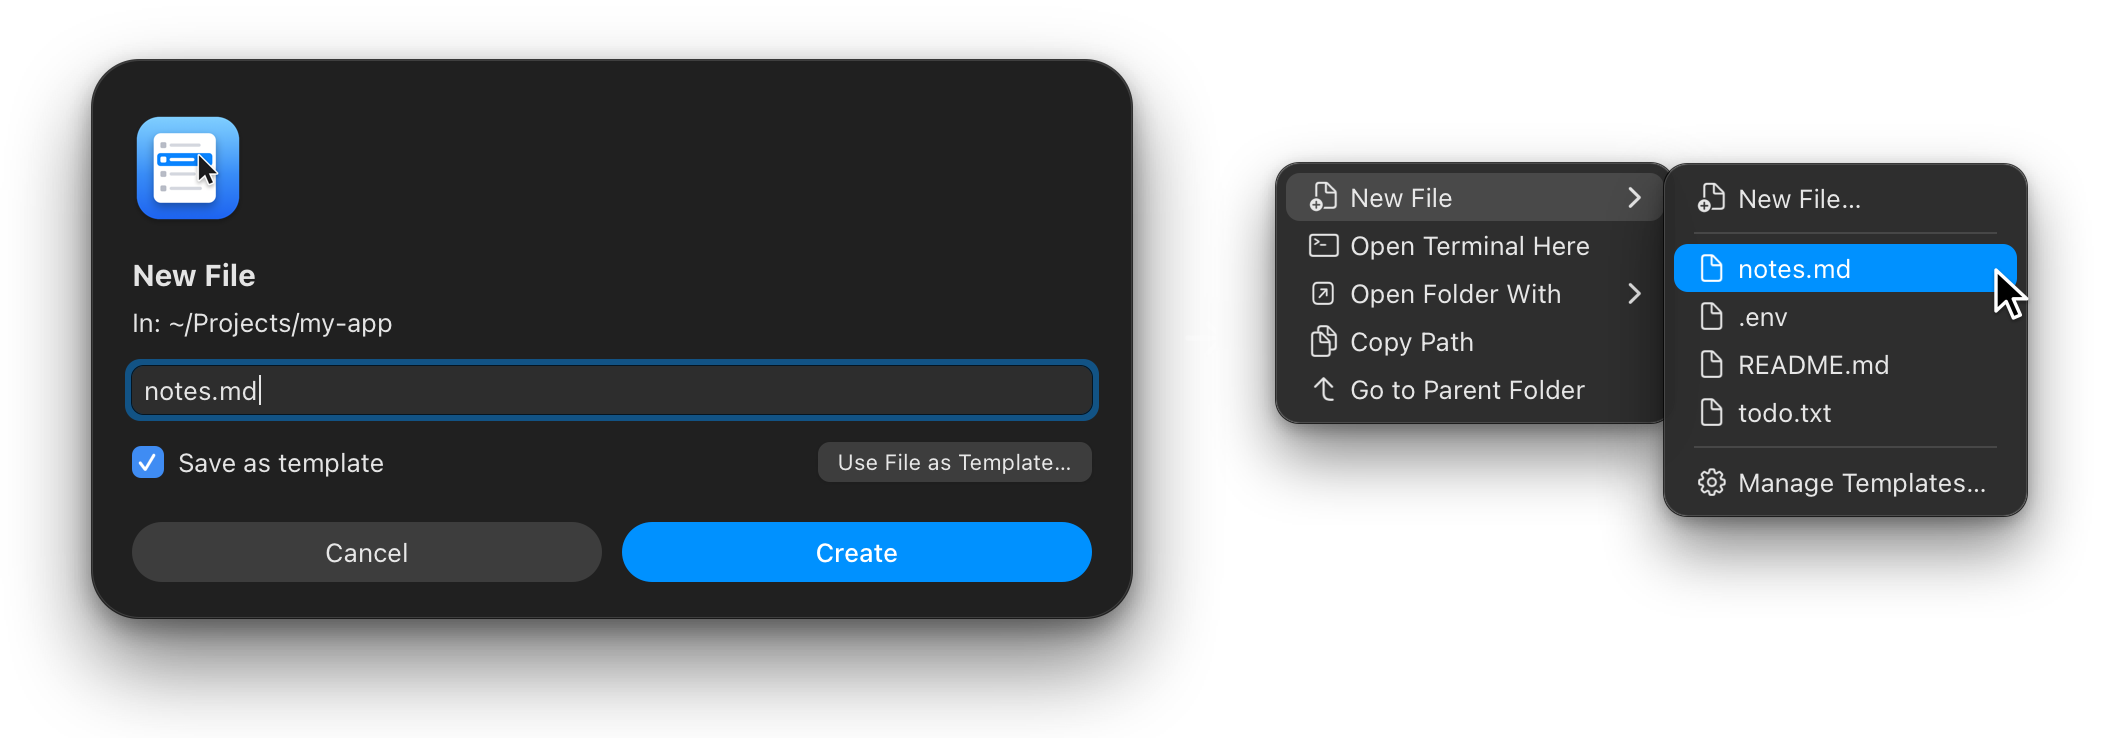
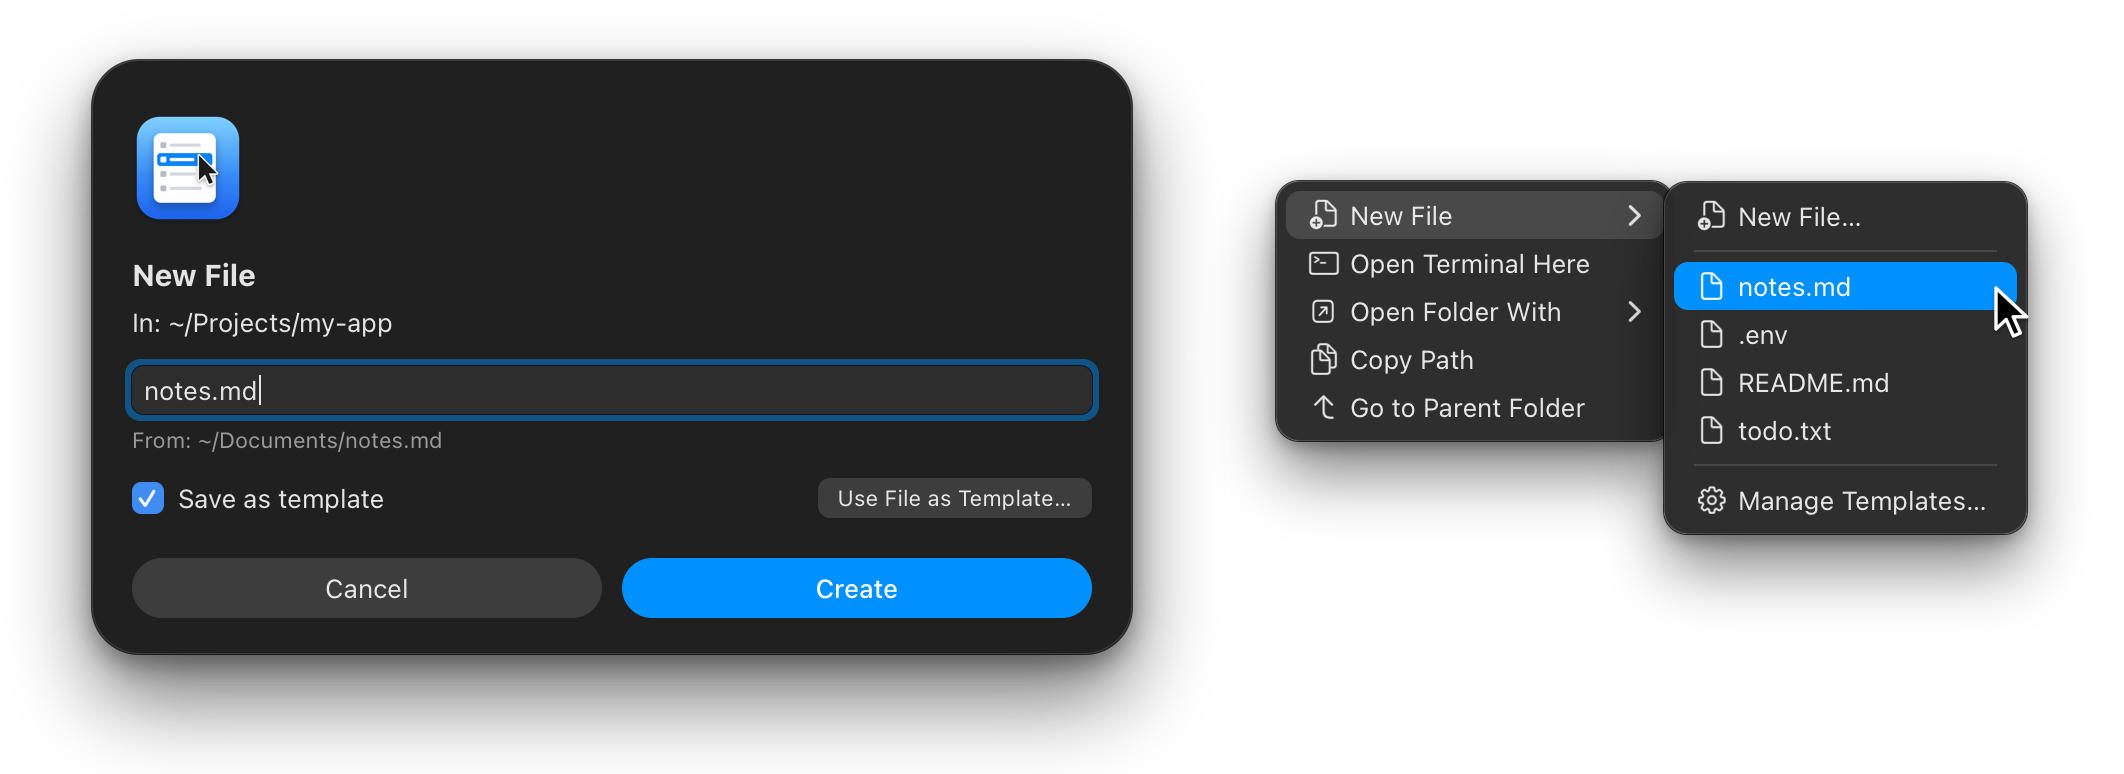
Polish file templates: rename on create, and Use as Template….
Choosing a file only fills the New File dialog; Create stores the copy under the typed name. Right-click a file for Use as Template…, and skip a false “already exists” when the source is already in that folder.

diff --git a/Sources/FinderMenu/main.swift b/Sources/FinderMenu/main.swift
@@ -6,6 +6,8 @@ import UniformTypeIdentifiers
 final class AppDelegate: NSObject, NSApplicationDelegate {
     private var handledURL = false
     private var settingsWindow: SettingsWindowController?
+    // Kept while the New File alert is open, so Use File as Template… can fill the name field.
+    private var newFileDialogState: NewFileDialogState?
 
     func application(_ application: NSApplication, open urls: [URL]) {
         handledURL = true
@@ -20,6 +22,13 @@ final class AppDelegate: NSObject, NSApplicationDelegate {
             guard let c = URLComponents(url: url, resolvingAgainstBaseURL: false) else { continue }
             // Manage Templates… doesn't act on a folder.
             if c.host == "settings" { showSettings(); continue }
+            // Use as Template… passes a file path, not a folder.
+            if c.host == "usetemplate" {
+                guard let path = c.queryItems?.first(where: { $0.name == "path" })?.value,
+                      let source = templateSourceFile(atPath: path) else { continue }
+                newFile(in: source.deletingLastPathComponent().path, fromSource: source)
+                continue
+            }
             guard let path = c.queryItems?.first(where: { $0.name == "path" })?.value,
                   let dir = folder(for: path) else { continue }
             switch c.host {
@@ -204,6 +213,11 @@ final class AppDelegate: NSObject, NSApplicationDelegate {
         createFile(in: dir, suggested: "untitled.txt", ask: true)
     }
 
+    // Right-click Use as Template…: same dialog as Use File as Template…, with the file already chosen.
+    private func newFile(in dir: String, fromSource source: URL) {
+        createFile(in: dir, suggested: source.lastPathComponent, ask: true, saveAsTemplate: true, source: source)
+    }
+
     // One click from the New File submenu: copy the stored file. If there is no copy (an old
     // name-only template), create an empty file. If the name is taken, pick the next free name
     // the way Finder does (notes.md → notes 2.md).
@@ -234,9 +248,11 @@ final class AppDelegate: NSObject, NSApplicationDelegate {
         }
     }
 
-    private func createFile(in dir: String, suggested: String, ask: Bool) {
+    private func createFile(in dir: String, suggested: String, ask: Bool,
+                            saveAsTemplate: Bool = false, source: URL? = nil) {
         var name = suggested
-        var saveAsTemplate = false
+        var saveAsTemplate = saveAsTemplate
+        var source = source
         var problem: String?
         while true {
             if ask || problem != nil {
@@ -244,20 +260,37 @@ final class AppDelegate: NSObject, NSApplicationDelegate {
                 let inString = String(format: inFormat, (dir as NSString).abbreviatingWithTildeInPath)
                 let info = (problem.map { $0 + "\n\n" } ?? "") + inString
                 guard let options = askFileName(info: info, suggested: name,
-                                                saveAsTemplate: saveAsTemplate) else { return }
+                                                saveAsTemplate: saveAsTemplate, source: source) else { return }
                 name = options.name.trimmingCharacters(in: .whitespacesAndNewlines)
                 saveAsTemplate = options.saveAsTemplate
+                source = options.source
             }
-            let full = (dir as NSString).appendingPathComponent(name)
+            let dest = URL(fileURLWithPath: (dir as NSString).appendingPathComponent(name))
             if !isValidFilename(name) {
                 problem = NSLocalizedString("⚠ That isn't a valid file name.", comment: "")
                 continue
             }
+            // Picking a file that already sits in this folder (same path) isn't a conflict: only
+            // the template store needs a copy. Creating a second file would fail with "already exists".
+            let sourceFile = source?.resolvingSymlinksInPath().standardizedFileURL
+            let creatingInPlace = sourceFile == dest.resolvingSymlinksInPath().standardizedFileURL
             do {
-                // A separate existence check cannot prevent another process from creating the same path.
-                try Data().write(to: URL(fileURLWithPath: full), options: .withoutOverwriting)
-                if saveAsTemplate { saveFileTemplate(filename: name) }
-                NSWorkspace.shared.activateFileViewerSelecting([URL(fileURLWithPath: full)])
+                if let source, !creatingInPlace {
+                    // A separate existence check cannot prevent another process from creating the same path.
+                    try FileManager.default.copyItem(at: source, to: dest)
+                    stripQuarantine(at: dest)
+                } else if source == nil {
+                    try Data().write(to: dest, options: .withoutOverwriting)
+                }
+                if saveAsTemplate {
+                    if let source {
+                        saveFileTemplate(copying: source, as: name)
+                    } else {
+                        saveFileTemplate(filename: name)
+                    }
+                    settingsWindow?.reloadTemplates()
+                }
+                NSWorkspace.shared.activateFileViewerSelecting([dest])
                 return
             } catch let error as CocoaError where error.code == .fileWriteFileExists {
                 let existsFormat = NSLocalizedString("⚠ \"%@\" already exists.", comment: "")
@@ -271,9 +304,34 @@ final class AppDelegate: NSObject, NSApplicationDelegate {
     private struct NewFileOptions {
         var name: String
         var saveAsTemplate: Bool
+        var source: URL?
     }
 
-    private func askFileName(info: String, suggested: String, saveAsTemplate: Bool) -> NewFileOptions? {
+    // Holds the controls the "Use File as Template…" button updates while the alert is modal.
+    private final class NewFileDialogState: NSObject {
+        var source: URL?
+        weak var nameField: NSTextField?
+        weak var sourceLabel: NSTextField?
+        weak var saveBox: NSButton?
+        weak var stack: NSStackView?
+        weak var alert: NSAlert?
+
+        @objc func pickSource(_ sender: Any?) {
+            guard let url = pickTemplateSourceFile() else { return }
+            source = url
+            nameField?.stringValue = url.lastPathComponent
+            let fromFormat = NSLocalizedString("From: %@", comment: "")
+            sourceLabel?.stringValue = String(format: fromFormat, (url.path as NSString).abbreviatingWithTildeInPath)
+            sourceLabel?.isHidden = false
+            saveBox?.state = .on
+            guard let stack, let alert else { return }
+            stack.frame = NSRect(origin: .zero, size: stack.fittingSize)
+            alert.accessoryView = stack
+            alert.window.layoutIfNeeded()
+        }
+    }
+
+    private func askFileName(info: String, suggested: String, saveAsTemplate: Bool, source: URL?) -> NewFileOptions? {
         let alert = NSAlert()
         alert.messageText = NSLocalizedString("New File", comment: "")
         alert.informativeText = info
@@ -286,10 +344,30 @@ final class AppDelegate: NSObject, NSApplicationDelegate {
         field.translatesAutoresizingMaskIntoConstraints = false
         field.heightAnchor.constraint(equalToConstant: 24).isActive = true
 
+        let sourceLabel = NSTextField(labelWithString: "")
+        sourceLabel.font = .systemFont(ofSize: NSFont.smallSystemFontSize)
+        sourceLabel.textColor = .secondaryLabelColor
+        sourceLabel.lineBreakMode = .byTruncatingMiddle
+        sourceLabel.setContentCompressionResistancePriority(.defaultLow, for: .horizontal)
+        if let source {
+            let fromFormat = NSLocalizedString("From: %@", comment: "")
+            sourceLabel.stringValue = String(format: fromFormat, (source.path as NSString).abbreviatingWithTildeInPath)
+        } else {
+            sourceLabel.isHidden = true
+        }
+
         let saveBox = NSButton(checkboxWithTitle: NSLocalizedString("Save as template", comment: ""), target: nil, action: nil)
         saveBox.state = saveAsTemplate ? .on : .off
 
-        let addButton = NSButton(title: NSLocalizedString("Use File as Template…", comment: ""), target: self, action: #selector(addTemplateWhileCreating(_:)))
+        let state = NewFileDialogState()
+        state.source = source
+        state.nameField = field
+        state.sourceLabel = sourceLabel
+        state.saveBox = saveBox
+        state.alert = alert
+
+        let addButton = NSButton(title: NSLocalizedString("Use File as Template…", comment: ""),
+                                 target: state, action: #selector(NewFileDialogState.pickSource(_:)))
         addButton.controlSize = .small
         addButton.font = .systemFont(ofSize: NSFont.smallSystemFontSize)
         addButton.setContentHuggingPriority(.required, for: .horizontal)
@@ -301,29 +379,72 @@ final class AppDelegate: NSObject, NSApplicationDelegate {
         row.alignment = .centerY
         let width = max(320, saveBox.fittingSize.width + addButton.fittingSize.width + 12)
         field.widthAnchor.constraint(equalToConstant: width).isActive = true
+        sourceLabel.widthAnchor.constraint(equalToConstant: width).isActive = true
         row.widthAnchor.constraint(equalToConstant: width).isActive = true
 
-        let stack = NSStackView(views: [field, row])
+        let stack = NSStackView(views: [field, sourceLabel, row])
         stack.orientation = .vertical
         stack.alignment = .leading
         stack.spacing = 8
-        stack.setCustomSpacing(12, after: field)
+        stack.setCustomSpacing(6, after: field)
+        stack.setCustomSpacing(12, after: sourceLabel)
         stack.frame = NSRect(origin: .zero, size: stack.fittingSize)
+        state.stack = stack
+        newFileDialogState = state
         alert.accessoryView = stack
         alert.window.initialFirstResponder = field
 
         // The Finder extension can't hand focus to the helper, and macOS refuses to bring forward an app
         // with no windows on screen. So ask once the alert is showing, or typing still goes to Finder.
         RunLoop.main.perform(inModes: [.modalPanel]) { NSApp.activate(ignoringOtherApps: true) }
+        defer { newFileDialogState = nil }
         guard alert.runModal() == .alertFirstButtonReturn else { return nil }
-        return NewFileOptions(name: field.stringValue, saveAsTemplate: saveBox.state == .on)
+        return NewFileOptions(name: field.stringValue, saveAsTemplate: saveBox.state == .on, source: state.source)
     }
+}
 
-    // Turning an existing file into a template lives in this same dialog, next to the checkbox.
-    @objc private func addTemplateWhileCreating(_ sender: Any?) {
-        addFileTemplatesFromPanel()
-        settingsWindow?.reloadTemplates()
+// Opens a panel for Use File as Template…. Only picks a file; Create stores the copy under the typed name.
+private func pickTemplateSourceFile() -> URL? {
+    let panel = NSOpenPanel()
+    panel.message = NSLocalizedString("Choose a file to use as a template:", comment: "")
+    panel.prompt = NSLocalizedString("Choose", comment: "")
+    panel.canChooseFiles = true
+    panel.canChooseDirectories = false
+    panel.allowsMultipleSelection = false
+    panel.treatsFilePackagesAsDirectories = false
+    panel.resolvesAliases = true
+    RunLoop.main.perform(inModes: [.modalPanel]) { NSApp.activate(ignoringOtherApps: true) }
+    guard panel.runModal() == .OK, let url = panel.url else { return nil }
+    return url
+}
+
+// Stores a template copy, asking before replacing a template that already uses this name.
+private func saveFileTemplate(copying source: URL, as filename: String) {
+    do {
+        try addFileTemplate(copying: source, as: filename, replace: false)
+    } catch TemplateFileError.duplicate(let name) {
+        let alert = NSAlert()
+        alert.messageText = String(format: NSLocalizedString("\"%@\" is already a template.", comment: ""), name)
+        alert.informativeText = NSLocalizedString("Replace the saved template with this file?", comment: "")
+        alert.addButton(withTitle: NSLocalizedString("Replace", comment: ""))
+        alert.addButton(withTitle: NSLocalizedString("Cancel", comment: ""))
+        guard alert.runModal() == .alertFirstButtonReturn else { return }
+        do {
+            try addFileTemplate(copying: source, as: filename, replace: true)
+        } catch {
+            NSLog("Finder Menu couldn't replace a template: \(error)")
+            reportTemplateAddFailure(filename)
+        }
+    } catch {
+        NSLog("Finder Menu couldn't add a template: \(error)")
+        reportTemplateAddFailure(filename)
     }
+}
+
+private func reportTemplateAddFailure(_ name: String) {
+    let alert = NSAlert()
+    alert.messageText = String(format: NSLocalizedString("Couldn't add \"%@\" as a template.", comment: ""), name)
+    alert.runModal()
 }
 
 let app = NSApplication.shared

diff --git a/Sources/FinderMenu/SettingsWindow.swift b/Sources/FinderMenu/SettingsWindow.swift
@@ -248,50 +248,3 @@ final class SettingsWindowController: NSWindowController {
         chosenTerminal = item.representedObject as? String
     }
 }
-
-// The same file picker the settings window uses; the New File dialog calls it too.
-func addFileTemplatesFromPanel() {
-    let panel = NSOpenPanel()
-    panel.message = NSLocalizedString("Choose a file to save as a template:", comment: "")
-    panel.prompt = NSLocalizedString("Add", comment: "")
-    panel.canChooseFiles = true
-    panel.canChooseDirectories = false
-    panel.allowsMultipleSelection = true
-    panel.treatsFilePackagesAsDirectories = false
-    panel.resolvesAliases = true
-    // The Finder extension can't hand focus to the helper, and macOS refuses to bring forward an app
-    // with no windows on screen. So ask once the panel is showing.
-    RunLoop.main.perform(inModes: [.modalPanel]) { NSApp.activate(ignoringOtherApps: true) }
-    guard panel.runModal() == .OK else { return }
-    for url in panel.urls {
-        addChosenTemplate(url)
-    }
-}
-
-private func addChosenTemplate(_ url: URL) {
-    do {
-        try addFileTemplate(copying: url, replace: false)
-    } catch TemplateFileError.duplicate(let name) {
-        let alert = NSAlert()
-        alert.messageText = String(format: NSLocalizedString("\"%@\" is already a template.", comment: ""), name)
-        alert.informativeText = NSLocalizedString("Replace the saved template with this file?", comment: "")
-        alert.addButton(withTitle: NSLocalizedString("Replace", comment: ""))
-        alert.addButton(withTitle: NSLocalizedString("Cancel", comment: ""))
-        guard alert.runModal() == .alertFirstButtonReturn else { return }
-        do {
-            try addFileTemplate(copying: url, replace: true)
-        } catch {
-            NSLog("Finder Menu couldn't replace a template: \(error)")
-            reportTemplateAddFailure(url.lastPathComponent)
-        }
-    } catch {
-        NSLog("Finder Menu couldn't add a template: \(error)")
-        reportTemplateAddFailure(url.lastPathComponent)
-    }
-}
-
-private func reportTemplateAddFailure(_ name: String) {
-    let alert = NSAlert()
-    alert.messageText = String(format: NSLocalizedString("Couldn't add \"%@\" as a template.", comment: ""), name)
-    alert.runModal()
-}

diff --git a/Sources/FinderMenuExtension/FinderSync.swift b/Sources/FinderMenuExtension/FinderSync.swift
@@ -54,8 +54,21 @@ class FinderMenuSync: FIFinderSync {
             }
             entry.image = Self.symbol(item.symbol)
             menu.addItem(entry)
+            // Right-click a single file: offer to turn it into a New File template without the file picker.
+            if item.id == "new-file", menuKind == .contextualMenuForItems, selectedTemplateSource != nil {
+                let use = NSMenuItem(title: NSLocalizedString("Use as Template…", comment: ""),
+                                     action: #selector(useAsTemplate(_:)), keyEquivalent: "")
+                use.image = Self.symbol("square.and.arrow.down")
+                menu.addItem(use)
+            }
         }
         return menu.items.isEmpty ? nil : menu
+    }
+
+    // One selected file or package (not an ordinary folder). Used for Use as Template….
+    private var selectedTemplateSource: URL? {
+        guard selection.count == 1, let url = selection.first else { return nil }
+        return templateSourceFile(at: url)
     }
 
     // Finder drops the template flag when it copies the menu, so SF Symbols would always render
@@ -153,6 +166,11 @@ class FinderMenuSync: FIFinderSync {
     @objc func newFile(_ sender: AnyObject?) {
         guard let dir = currentFolder else { return }
         callHelper("newfile", dir.path)
+    }
+
+    @objc func useAsTemplate(_ sender: AnyObject?) {
+        guard let file = selectedTemplateSource else { return }
+        callHelper("usetemplate", file.path)
     }
 
     // Finder copies the menu, so find the template by the item's title (file names are unique).

diff --git a/Sources/Shared/Templates.swift b/Sources/Shared/Templates.swift
@@ -51,10 +51,27 @@ func saveFileTemplate(filename: String) {
     fileTemplates.append(template)
 }
 
+// Absolute path to a file or package that can become a template. Ordinary folders and missing paths are nil.
+func templateSourceFile(atPath path: String) -> URL? {
+    guard path.hasPrefix("/") else { return nil }
+    let url = URL(fileURLWithPath: (path as NSString).standardizingPath).resolvingSymlinksInPath()
+    do {
+        try validateTemplateSource(url)
+        return url
+    } catch {
+        return nil
+    }
+}
+
+func templateSourceFile(at url: URL) -> URL? {
+    templateSourceFile(atPath: url.path)
+}
+
 // A copy of an existing file or package (such as .pages). Ordinary folders are refused.
 // A symlink is resolved when adding, so the store holds the file itself.
-func addFileTemplate(copying source: URL, replace: Bool) throws {
-    let name = source.lastPathComponent
+// `filename` is the template name to store (defaults to the source's last path component).
+func addFileTemplate(copying source: URL, as filename: String? = nil, replace: Bool) throws {
+    let name = (filename ?? source.lastPathComponent).trimmingCharacters(in: .whitespacesAndNewlines)
     guard isValidFilename(name) else { throw TemplateFileError.invalid }
     let resolved = source.resolvingSymlinksInPath()
     try validateTemplateSource(resolved)

diff --git a/docs/mockups/mockups.html b/docs/mockups/mockups.html
@@ -178,7 +178,8 @@
   }
   .field .caret { width: 1px; height: 15px; margin-left: 1px; background: var(--text); }
   .alert .checkbox { margin-top: 14px; }
-  .alert .template-line { display: flex; align-items: center; justify-content: space-between; margin-top: 14px; gap: 16px; }
+  .alert .from { margin-top: 6px; font-size: 11px; line-height: 14px; color: var(--text-2); }
+  .alert .template-line { display: flex; align-items: center; justify-content: space-between; margin-top: 12px; gap: 16px; }
   .alert .template-line .checkbox { margin-top: 0; }
   .buttons { display: flex; gap: 10px; margin-top: 20px; }
   .buttons > div {
@@ -332,6 +333,7 @@ const scenes = {
       h('div', { cls: 'title' }, 'New File'),
       h('div', { cls: 'info' }, 'In: ~/Projects/my-app'),
       h('div', { cls: 'field' }, 'notes.md', h('span', { cls: 'caret' })),
+      h('div', { cls: 'from' }, 'From: ~/Documents/notes.md'),
       h('div', { cls: 'template-line' },
         checkbox('Save as template'),
         h('div', { cls: 'button' }, 'Use File as Template…')),

diff --git a/README.md b/README.md
@@ -62,7 +62,7 @@ Right-click **empty space** in any folder, with nothing selected:
 | <picture><source media="(prefers-color-scheme: dark)" srcset="docs/icons/copy-path-dark.png"><img src="docs/icons/copy-path.png" width="20" height="20" alt=""></picture> | **Copy&nbsp;Path** | Copies the current folder's full path. |
 | <picture><source media="(prefers-color-scheme: dark)" srcset="docs/icons/parent-folder-dark.png"><img src="docs/icons/parent-folder.png" width="20" height="20" alt=""></picture> | **Go&nbsp;to&nbsp;Parent&nbsp;Folder** | Moves the window up one level, even when Finder's Back button is greyed out (e.g. a window opened with `open .`). |
 
-Right-clicking a file or folder works too: **Copy Path** copies the selected items' paths, and **Open Terminal Here** and **Open Folder With** use the selected folder.
+Right-clicking a file or folder works too: **Copy Path** copies the selected items' paths, and **Open Terminal Here** and **Open Folder With** use the selected folder. Right-click a single file for **Use as Template…**, which opens New File with that file already chosen.
 
 The menu also appears on external drives, disk images and network shares (such as SMB), not just your Mac's own disk.
 
@@ -73,12 +73,12 @@ On macOS 26 and later the items have icons, like Finder's own. On earlier versio
 <p align="center">
   <picture>
     <source media="(prefers-color-scheme: dark)" srcset="docs/images/templates-dark.png">
-    <img src="docs/images/templates-light.png" width="760" alt="Left: the New File dialog with notes.md typed as the name, Save as template on the left and Use File as Template… on the right. Right: the New File submenu, with New File… at the top, the templates notes.md, .env, README.md and todo.txt, and Manage Templates… at the bottom">
+    <img src="docs/images/templates-light.png" width="760" alt="Left: the New File dialog with notes.md, a From path under the name field, Save as template on the left and Use File as Template… on the right. Right: the New File submenu, with New File… at the top, the templates notes.md, .env, README.md and todo.txt, and Manage Templates… at the bottom">
   </picture>
 </p>
 
 1. Tick **Save as template** in the New File dialog to reuse an empty file of that name.
-2. In that same dialog, **Use File as Template…** keeps a copy of a file you already have: a script, a note, a Pages or Word document. Finder Menu stores that copy and leaves the original where it is.
+2. Or pick a file you already have: **Use File as Template…** in the dialog, or **Use as Template…** when you right-click the file. The name field is filled in (you can edit it), and Create stores a copy under that name. The original file stays where it is.
 3. Next time, pick it under **New File**. You get a copy of the stored file.
 
 If the name is taken, you get `notes 2.md`, like in Finder. **Manage Templates…** removes templates.
